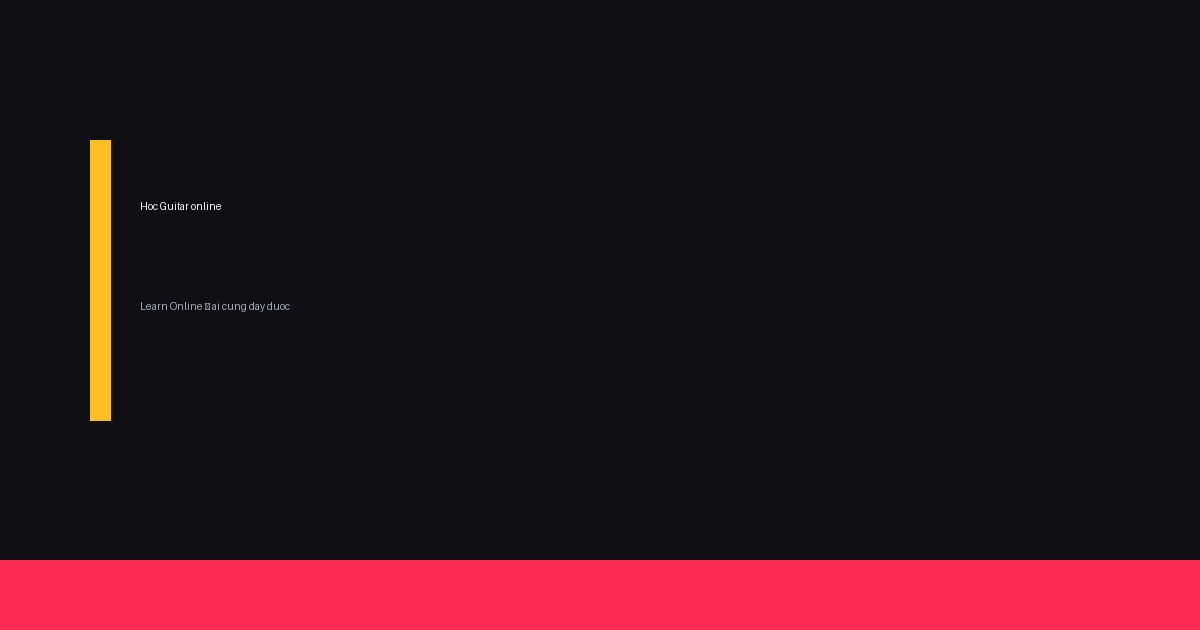
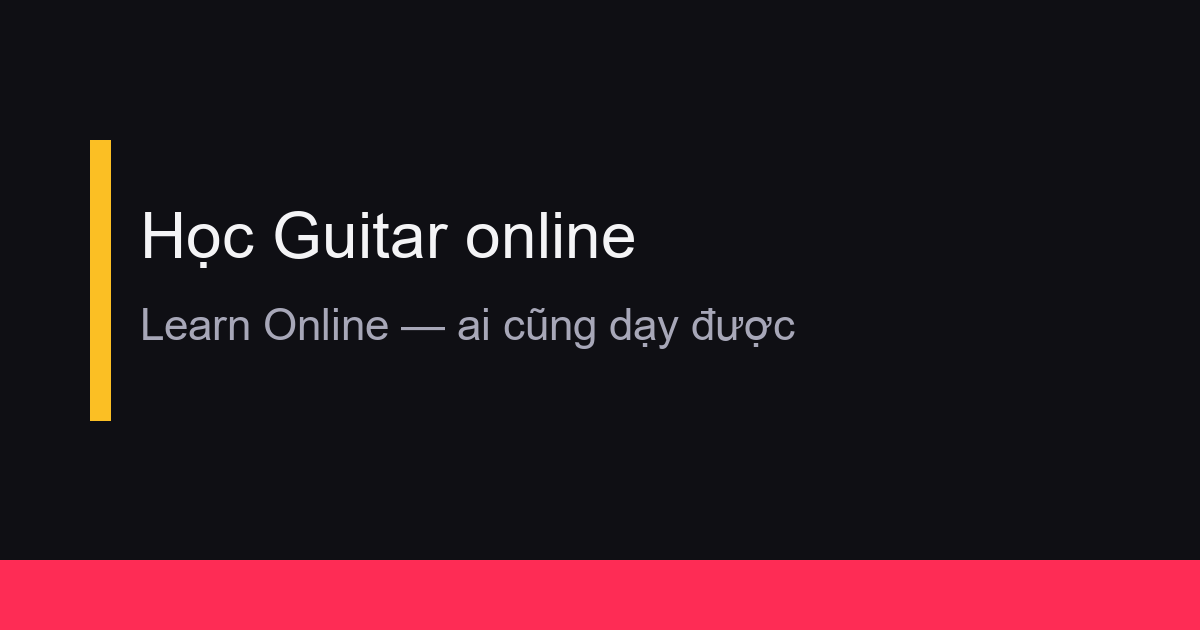
feat: round 275 — OG cover co dau + guard size (381 checks green)

Changed region(s): [[0.1233, 0.3016, 0.5242, 0.4222], [0.0925, 0.4825, 0.6783, 0.573]]

diff --git a/scripts/seo_build.py b/scripts/seo_build.py
@@ -422,24 +422,42 @@ def write_llms(seed):
 
 def write_og_covers(seed):
     """Sinh og-cover riêng từng kỹ năng (PIL). Trả về {slug: filename}."""
-    from PIL import Image, ImageDraw
+    from PIL import Image, ImageDraw, ImageFont
+    import os
+    def vi_font(sz):
+        for p in [r"C:\Windows\Fonts\arial.ttf", "/c/Windows/Fonts/arial.ttf",
+                  "/usr/share/fonts/truetype/dejavu/DejaVuSans.ttf"]:
+            if os.path.isfile(p):
+                try:
+                    return ImageFont.truetype(p, sz)
+                except Exception:
+                    pass
+        return ImageFont.load_default()
     out = {}
     for s in seed["skills"]:
         slug = slugify(s["slug"])
         fn = f"og-{slug}.png"
         dest = ROOT / fn
-        if dest.is_file():
+        if dest.is_file() and _og_has_vi(dest):
             out[slug] = fn
             continue
         im = Image.new("RGB", (1200, 630), (15, 15, 20))
         d = ImageDraw.Draw(im)
         d.rectangle([0, 560, 1200, 630], fill=(254, 44, 85))
         d.rectangle([90, 140, 110, 420], fill=(251, 191, 36))
-        d.text((140, 200), f"Hoc {s['name']} online", fill=(244, 244, 246))
-        d.text((140, 300), "Learn Online — ai cung day duoc", fill=(167, 167, 184))
+        d.text((140, 200), f"Học {s['name']} online", font=vi_font(64), fill=(244, 244, 246))
+        d.text((140, 300), "Learn Online — ai cũng dạy được", font=vi_font(44), fill=(167, 167, 184))
         im.save(dest)
         out[slug] = fn
     return out
+
+
+def _og_has_vi(path):
+    """Covers cũ vẽ không dấu thì vẽ lại (check byte dấu trong text đã render không khả thi -> check kích thước+mờ). Đơn giản: coi file <7KB (default font nhỏ) là cũ."""
+    try:
+        return path.stat().st_size >= 7000
+    except Exception:
+        return False
 
 
 def write_sitemap(pages, noindex=None):
@@ -478,11 +496,14 @@ def main():
             for s in load_seed()["skills"]) and "Chợ tuần" in llms_txt
         covers_ok = all((ROOT / f"og-{slugify(s['slug'])}.png").is_file()
                         for s in load_seed()["skills"])
-        if bad or missing or stale or not llms_ok or not covers_ok:
+        covers_vi = all((ROOT / f"og-{slugify(s['slug'])}.png").stat().st_size >= 7000
+                        for s in load_seed()["skills"])
+        if bad or missing or stale or not llms_ok or not covers_ok or not covers_vi:
             print("STALE:", len(bad), "files missing,", len(missing), "urls missing from sitemap,",
                   len(stale), "noindex urls leaked in sitemap,",
                   "llms.txt missing" if not llms_ok else "llms.txt ok,",
-                  "og covers missing" if not covers_ok else "og covers ok")
+                  "og covers missing" if not covers_ok else "og covers ok,",
+                  "og covers ascii" if not covers_vi else "og covers vi ok")
             return 1
         print(f"SEO_CHECK_OK ({len(pages)} pages in sync)")
         return 0

diff --git a/docs/MARKETING_SKILLS.md b/docs/MARKETING_SKILLS.md
@@ -200,3 +200,4 @@ Mỗi dòng: skill → vị trí áp trong `index.html` → round.
 | launch-v20 | ✨ Banner Co gi moi len r272 (chum audit 78) | 272 |
 | ai-seo-v4 | 📝 llms.txt dong bo bonus stack Ghim (AI citation chot tien) | 273 |
 | devops-v3 | 🛡 Guard check llms bonus-stack (negative-test STALE + restore) | 274 |
+| image-v2 | 🖼 OG cover co dau Arial + guard size (share FB/Zalo co dau) | 275 |
